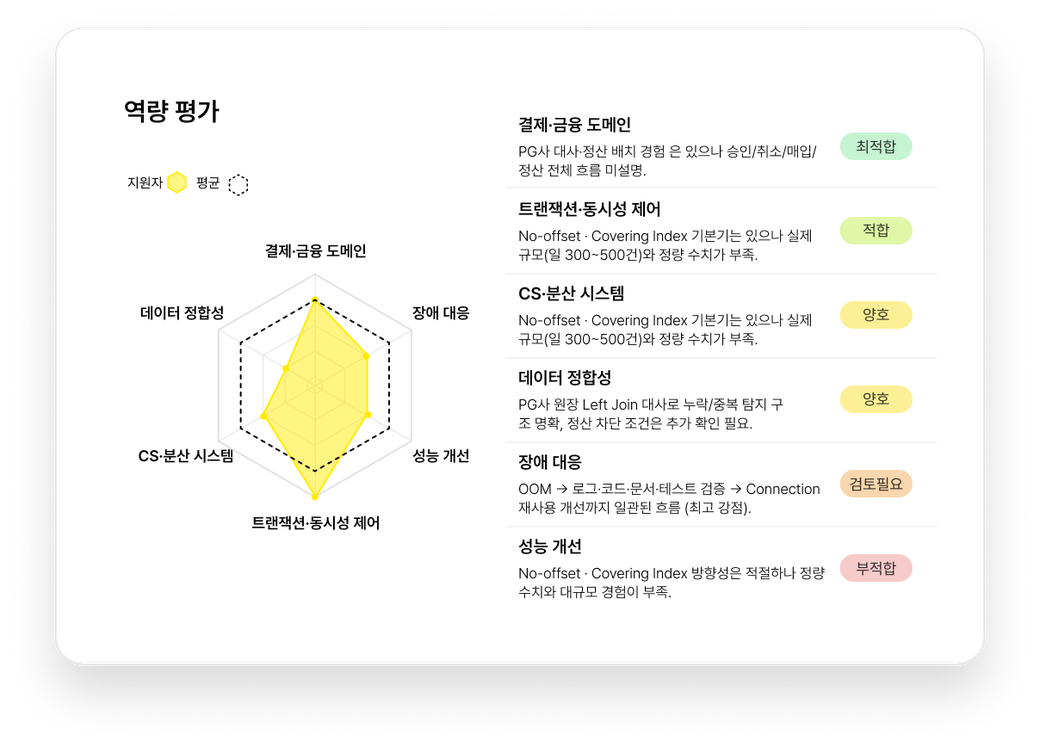
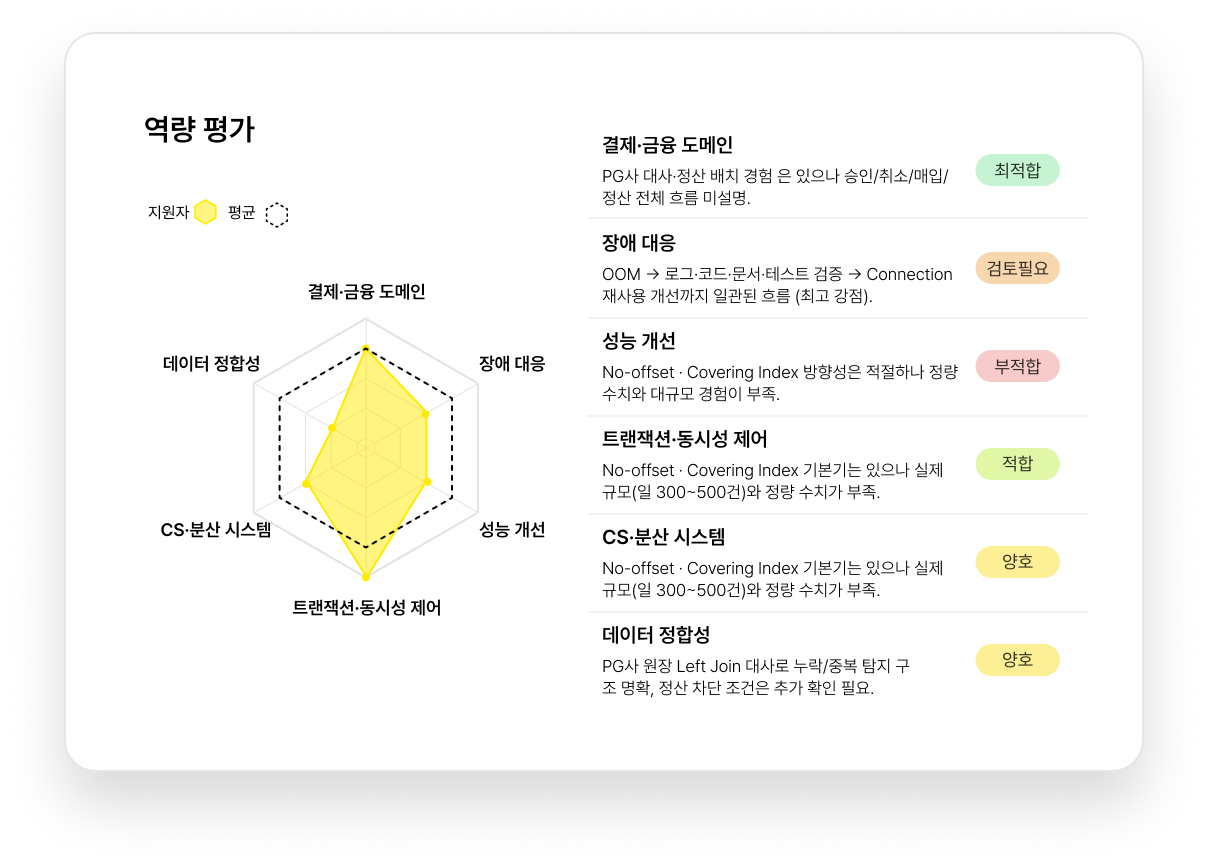
HOW IT WORKS: 역량평가 이미지 교체(report-competency.png 갱신, webp 소스 제거)

diff --git a/app/page.tsx b/app/page.tsx
@@ -212,7 +212,7 @@ export default function HomePage() {
               <div className="hr-media"><picture><source srcSet="/report-overall-grade.webp" type="image/webp" /><img className="hr-img" src="/report-overall-grade.png" alt="AIVIEW 리포트 — 종합 등급(양호)과 종합 평가" width={1040} height={524} loading="lazy" /></picture></div>
             </div>
             <div className="how-row">
-              <div className="hr-media"><picture><source srcSet="/report-competency.webp" type="image/webp" /><img className="hr-img" src="/report-competency.png" alt="AIVIEW 리포트 — 역량 평가 레이더 차트와 항목별 등급" width={1040} height={747} loading="lazy" /></picture></div>
+              <div className="hr-media"><img className="hr-img" src="/report-competency.png" alt="AIVIEW 리포트 — 역량 평가 레이더 차트와 항목별 등급" width={1208} height={868} loading="lazy" /></div>
               <div className="hr-info">
                 <h3>역량평가</h3>
                 <p>핵심 직무 역량을 항목별로 검증하고, 강점·약점을 시각화해 보여줍니다.</p>
